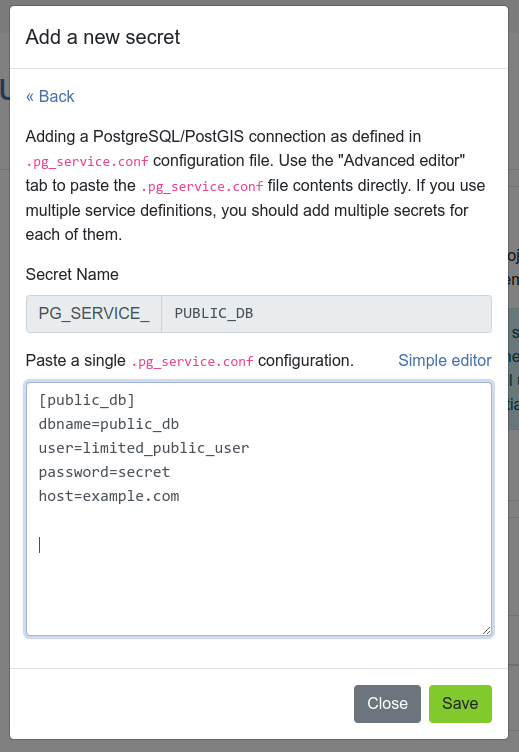
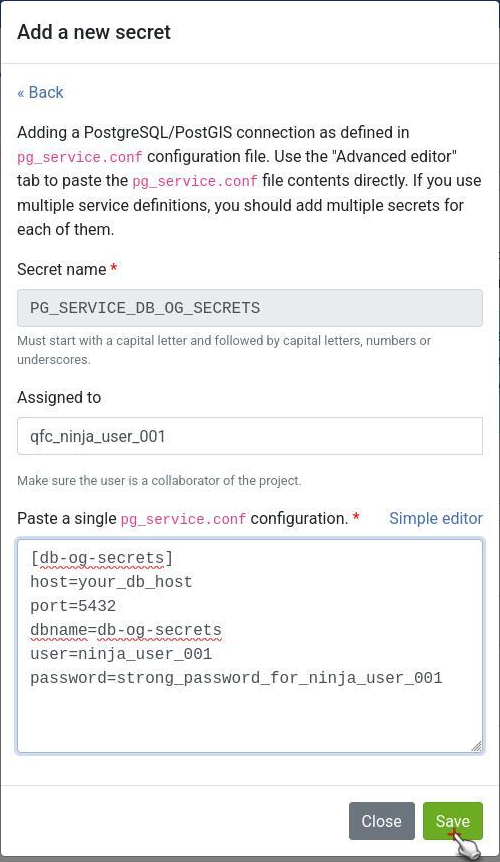
Add user level secrets for each individual collaborator on Nyuki

Changed region(s): [[0.0, 0.0, 1.0, 1.0]]

diff --git a/documentation/reference/qfieldcloud/secrets.en.md b/documentation/reference/qfieldcloud/secrets.en.md
@@ -5,42 +5,50 @@ tx_slug: documentation_reference_qfieldcloud_secrets
 
 # Secrets
 
-Secrets are Project settings that are securely stored in an encrypted way.
-Jobs will automatically have access to project's secrets.
+Secrets are project settings that are securely stored in an encrypted way.
+Jobs will automatically have access to the project's secrets, allowing for secure connections to external services without exposing credentials in your project files.
 
-There are two types of secrets in QFieldCloud:
+## Types of Secrets
 
-- **environment variables** - Environment variables will be available to QGIS while your project jobs are running.
-- **pg_service configurations** - Adding a PostgreSQL/PostGIS connection as defined in the `pg_service.conf` configuration file.
+There are two types of secrets you can create in QFieldCloud:
 
+- **Environment variables:** These will be available to QGIS as environment variables while your project jobs are running. You need to provide a name (capitals only) and a value.
+
+- **pg_service configurations:** This allows you to add a PostgreSQL/PostGIS connection as defined in a `pg_service.conf` configuration file.
+
+!![Project secret page after pressing the **Add a new secret** button.](../../assets/images/secrets.png)
 
 !!! warning
     QFieldCloud makes sure your credentials are stored in a secured and encrypted manner. Nevertheless, we advice our users to use roles with the least privileges in shared environments to prevent potential leakage.
     Also note all users with upload file permissions can potentially access the values of those credentials too.
 
+## Secret Levels and Precedence
 
-## Adding a new secret
+To provide granular control over data access, secrets in QFieldCloud can be defined at three different hierarchical levels. When a job runs, QFieldCloud will use the most specific secret available according to the following order of precedence:
 
-Adding a new secret on QFieldCloud is an easy process of only three steps.
+1. **User-Assigned Secret (Highest Precedence):** A secret defined within a project and assigned to a specific user. This is the most specific level and overrides all others for that user.
 
-1. Navigating to the project' secrets page.
-2. Pressing **Add a new secret** button and choosing the type of secret you want to add.
-3. Storing the secret contents.
+2. **Project-Level Secret:** A general secret defined for a specific project. It applies to all project members unless a user-assigned secret is present.
 
-!![Project secret page after pressing the **Add a new secret** button.](../../assets/images/secrets.png)
+3. **Organization-Level Secret (Lowest Precedence):** A secret defined at the organization level. It is used as a fallback for all projects within the organization that require it, provided no project or user-level secret has been set.
+
+This hierarchical system allows an administrator to set a general, low-privilege database role at the organization level, while assigning more privileged roles for specific projects or trusted individual users.
+
+## Adding a Secret
+
+The process involves navigating to the correct context (Organization or Project), adding a new secret, and storing its contents.
+
+You can add secrets at the following levels:
+
+- **Organization Level:** Navigate to your organization's settings and select the **Secrets** tab. Secrets added here will be available to all projects within the organization unless overridden.
+
+- **Project Level:** Navigate to your project's settings and select the **Secrets** tab. Secrets added here will override any organization-level secrets with the same name.
+
+- **User-Assigned Level:** Within a project's **Secrets** tab, you can add a new secret and explicitly assign it to a specific project member.
+This provides the highest level of precedence.
 
 !!! note
     Once added, a secret can only be removed, but cannot be edited.
-
-
-## Environment variable
-
-Environment variables will be available to QGIS while your project jobs are running.
-
-You need to fill in the environment variable name (capitals only) and the environment variable value as free text.
-
-!![Adding an environment variable.](../../assets/images/secrets-envvar.png)
-
 
 ## pg_service configuration
 
@@ -66,3 +74,130 @@ For other service settings you can use the **Add extra pgservice field** button 
 The advanced configuration allows you to directly edit the settings as plain text. This is convenient in cases you want to copy and paste your settings directly from a `pg_service.conf` file.
 
 !![Adding a PostgreSQL service - Advanced editor.](../../assets/images/secrets-pgservice-advanced.png)
+
+## Use Case: Verifying Secret Precedence with PostgreSQL
+
+This example demonstrates how to set up and verify the secret hierarchy. By creating features in QField, we can confirm the feature's provenance by checking which PostgreSQL user role was used for its creation, validating that the correct secret was applied at each level.
+
+!!! note
+    The following steps are a case example that can be adapted to your organization's requirements.
+
+### Part 1: PostgreSQL Database Configuration
+
+First, we'll configure the database, define user roles, and set up a table with an automated trigger.
+
+#### 1. Database and Extension Instantiation
+
+Create a new database and enable the necessary `postgis` and `uuid-ossp` extensions.
+
+```sql
+-- Create a new database with a specified name, owner, and encoding.
+CREATE DATABASE db-og-secrets OWNER qfield ENCODING 'UTF8';
+
+-- Connect to the newly created database.
+\c db-og-secrets
+
+-- Install the required extensions if they do not already exist.
+CREATE EXTENSION IF NOT EXISTS postgis;
+CREATE EXTENSION IF NOT EXISTS "uuid-ossp";
+```
+
+#### 2. Establishment of Roles
+
+Create three distinct user roles to simulate the tiered permission structure that QFieldCloud secrets will manage.
+
+```sql
+-- Create three roles, each with login privileges and an assigned password.
+CREATE ROLE ninja_org LOGIN PASSWORD 'your_strong_password_for_org';
+CREATE ROLE ninja_project LOGIN PASSWORD 'your_strong_password_for_project';
+CREATE ROLE ninja_user LOGIN PASSWORD 'strong_password_for_user_001';
+```
+
+#### 3. Schema and Table Definition
+
+Create a schema and a table for point geometries. The table will include a `pg_user` field to automatically record which role was responsible for the data insertion.
+
+```sql
+-- Create a schema named 'ninja' if it does not already exist.
+CREATE SCHEMA IF NOT EXISTS ninja;
+
+-- Create a table within the 'ninja' schema with the specified columns.
+CREATE TABLE IF NOT EXISTS ninja.ninja_point (
+  id UUID PRIMARY KEY DEFAULT uuid_generate_v4(),
+  pg_user TEXT,
+  some_value TEXT NOT NULL,
+  geom GEOMETRY(POINT, 4326)
+);
+```
+
+#### 4. Implementation of an Automated User-Attribution Trigger
+
+This trigger automatically populates the `pg_user` field with the identifier of the `current_user` whenever a record is inserted or updated.
+
+```sql
+-- Define a trigger function to update the pg_user field.
+BEGIN;
+SET LOCAL SEARCH_PATH TO ninja, public;
+
+CREATE OR REPLACE FUNCTION update_pg_user() RETURNS TRIGGER AS $$
+BEGIN
+  NEW.pg_user := current_user;
+  RETURN NEW;
+END;
+$$ LANGUAGE plpgsql SET search_path FROM CURRENT;
+
+COMMIT;
+
+-- Assign the trigger to the ninja_point table for INSERT or UPDATE events.
+BEGIN;
+SET LOCAL SEARCH_PATH TO ninja, public;
+
+DROP TRIGGER IF EXISTS trg_ninja_point_update_pg_user ON ninja.ninja_point;
+
+CREATE TRIGGER trg_ninja_point_update_pg_user
+  BEFORE INSERT OR UPDATE ON ninja_point
+  FOR EACH ROW EXECUTE FUNCTION update_pg_user();
+
+COMMIT;
+```
+
+#### 5. Permission Granting
+
+Grant the necessary permissions to the three roles.
+
+```sql
+-- Grant usage and data manipulation privileges on the schema and its tables.
+GRANT USAGE ON SCHEMA ninja TO ninja_org, ninja_project, ninja_user;
+GRANT SELECT, REFERENCES, INSERT, UPDATE, DELETE ON ALL TABLES IN SCHEMA ninja
+  TO ninja_org, ninja_project, ninja_user;
+```
+
+### Part 2: QFieldCloud and QGIS Project Configuration
+
+Now, configure your QGIS project to use the PostgreSQL service connection and set the secrets at different levels in QFieldCloud.
+
+#### Scenario 1: Organization-Level Secret Application
+
+1. **Secret Instantiation:** In the QFieldCloud web interface, navigate to your organization's settings -> **Secrets** tab. Add a new `pg_service` secret using the credentials for the **`ninja_org`** role.
+
+2. **Verification:** After configuring your QGIS project to use this service, create a new feature in the `ninja_point` layer from QField. When you synchronize the data, the `pg_user` attribute for the new feature is expected to be **`ninja_org`**.
+
+#### Scenario 2: Project-Level Secret Application (Precedence over Organization)
+
+1. **Secret Instantiation:** Navigate to the project's settings in QFieldCloud and go to the **Secrets** tab. Add a new `pg_service` secret with the same service name as the organization-level one, but this time use the credentials for the **`ninja_project`** role.
+
+2. **Verification:** Create another feature from QField. The `pg_user` attribute for this new feature is expected to be **`ninja_project`**, demonstrating that the project-level secret correctly superseded the organization-level one.
+
+#### Scenario 3: User-Level Secret Application (Highest Precedence)
+
+1. **Secret Instantiation:** Within the project's settings -> **Secrets** tab on QFieldCloud, add a new `pg_service` secret. Use the credentials for the **`ninja_user`** role and explicitly assign this secret to your user account.
+
+2. **Verification:** Create a final feature from QField. The `pg_user` attribute for this feature is expected to be **`ninja_user`**, confirming that a user-assigned secret holds the highest level of precedence in the hierarchy.
+
+## Environment variable
+
+Environment variables will be available to QGIS while your project jobs are running.
+
+You need to fill in the environment variable name (capitals only) and the environment variable value as free text.
+
+!![Adding an environment variable.](../../assets/images/secrets-envvar.png)
